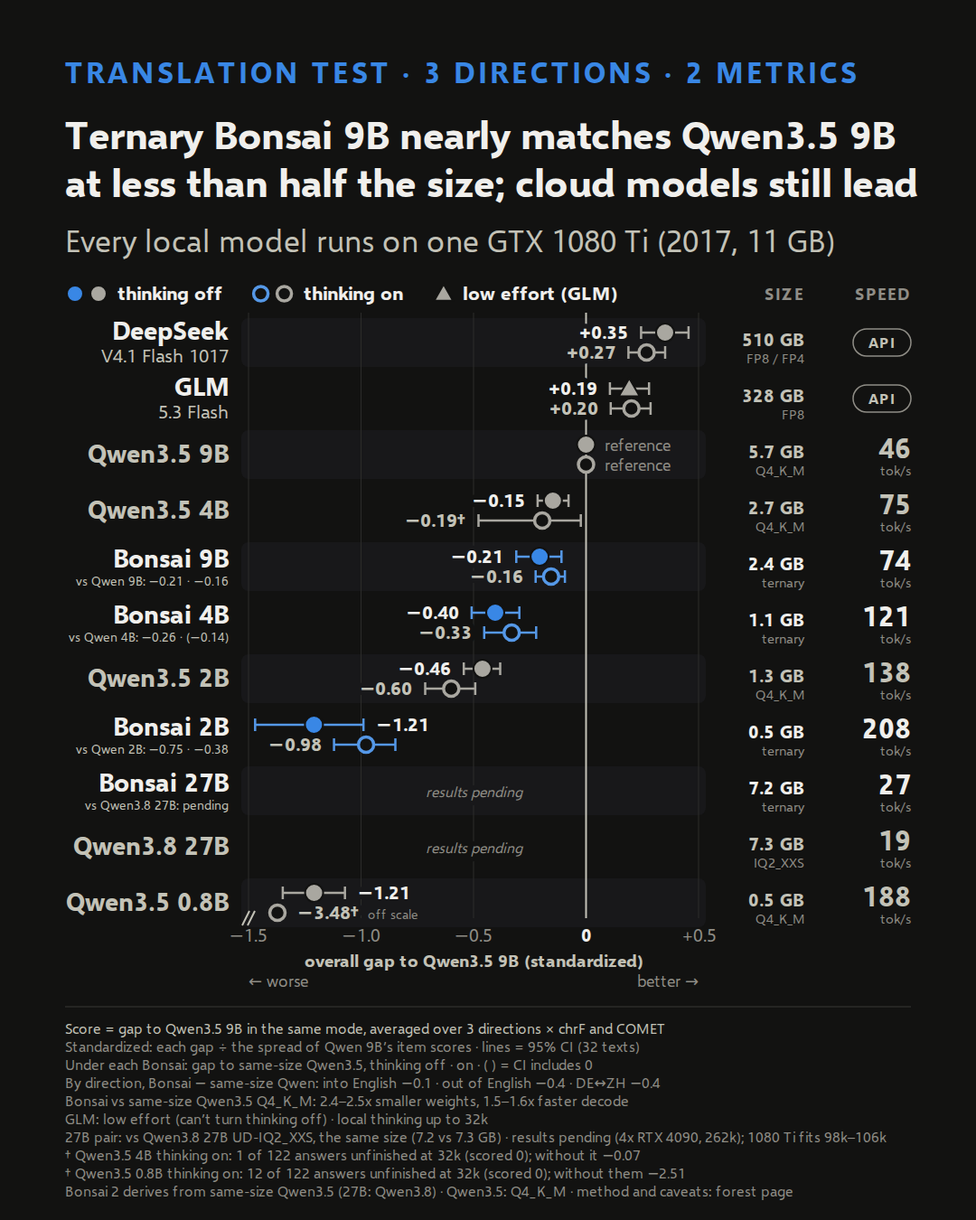
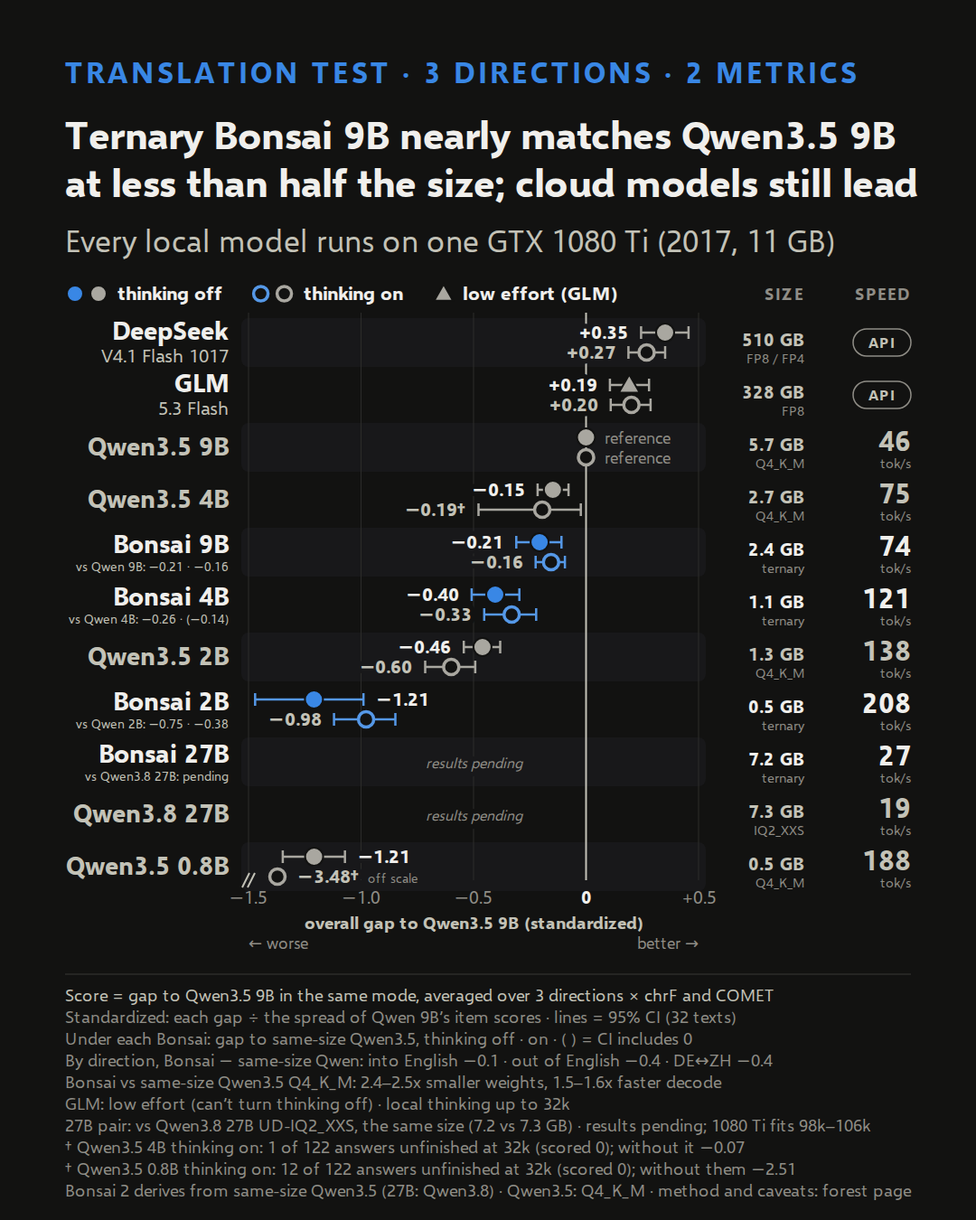
update bonsai2 translation pages

diff --git a/bonsai2-translation/index.html b/bonsai2-translation/index.html
@@ -35,26 +35,26 @@ svg.card{display:block;width:100%;height:auto;border-radius:14px}
 <text x="1008" y="332" fill="#8f8d86" font-size="18" font-weight="700" letter-spacing="2" text-anchor="end">SPEED</text>
 <text x="890" y="332" fill="#8f8d86" font-size="18" font-weight="700" letter-spacing="2" text-anchor="end">SIZE</text>
 <rect x="267" y="352" width="514" height="54" rx="8" fill="#18181a"/>
-<rect x="267" y="476" width="514" height="54" rx="8" fill="#18181a"/>
-<rect x="267" y="600" width="514" height="54" rx="8" fill="#18181a"/>
-<rect x="267" y="724" width="514" height="54" rx="8" fill="#18181a"/>
-<rect x="267" y="848" width="514" height="54" rx="8" fill="#18181a"/>
-<rect x="267" y="972" width="514" height="54" rx="8" fill="#18181a"/>
-<line x1="275.0" x2="275.0" y1="346" y2="1016.0" stroke="#2c2c2a" stroke-width="1"/>
-<text x="275.0" y="1042.0" fill="#8f8d86" font-size="20" font-weight="400" text-anchor="middle">−1.5</text>
-<line x1="399.5" x2="399.5" y1="346" y2="1016.0" stroke="#2c2c2a" stroke-width="1"/>
-<text x="399.5" y="1042.0" fill="#8f8d86" font-size="20" font-weight="400" text-anchor="middle">−1.0</text>
-<line x1="524.0" x2="524.0" y1="346" y2="1016.0" stroke="#2c2c2a" stroke-width="1"/>
-<text x="524.0" y="1042.0" fill="#8f8d86" font-size="20" font-weight="400" text-anchor="middle">−0.5</text>
-<line x1="648.5" x2="648.5" y1="346" y2="1016.0" stroke="#c3c2b7" stroke-width="2"/>
-<text x="648.5" y="1042.0" fill="#f0efec" font-size="20" font-weight="700" text-anchor="middle">0</text>
-<line x1="773.0" x2="773.0" y1="346" y2="1016.0" stroke="#2c2c2a" stroke-width="1"/>
-<text x="773.0" y="1042.0" fill="#8f8d86" font-size="20" font-weight="400" text-anchor="middle">+0.5</text>
-<line x1="268" x2="276" y1="1024.0" y2="1008.0" stroke="#c3c2b7" stroke-width="2"/>
-<line x1="274" x2="282" y1="1024.0" y2="1008.0" stroke="#c3c2b7" stroke-width="2"/>
-<text x="524.0" y="1070.0" fill="#c3c2b7" font-size="19" font-weight="700" text-anchor="middle">overall gap to Qwen3.5 9B (standardized)</text>
-<text x="275" y="1092.0" fill="#8f8d86" font-size="18">← worse</text>
-<text x="773" y="1092.0" fill="#8f8d86" font-size="18" text-anchor="end">better →</text>
+<rect x="267" y="468" width="514" height="54" rx="8" fill="#18181a"/>
+<rect x="267" y="584" width="514" height="54" rx="8" fill="#18181a"/>
+<rect x="267" y="700" width="514" height="54" rx="8" fill="#18181a"/>
+<rect x="267" y="816" width="514" height="54" rx="8" fill="#18181a"/>
+<rect x="267" y="932" width="514" height="54" rx="8" fill="#18181a"/>
+<line x1="275.0" x2="275.0" y1="346" y2="974.0" stroke="#2c2c2a" stroke-width="1"/>
+<text x="275.0" y="1000.0" fill="#8f8d86" font-size="20" font-weight="400" text-anchor="middle">−1.5</text>
+<line x1="399.5" x2="399.5" y1="346" y2="974.0" stroke="#2c2c2a" stroke-width="1"/>
+<text x="399.5" y="1000.0" fill="#8f8d86" font-size="20" font-weight="400" text-anchor="middle">−1.0</text>
+<line x1="524.0" x2="524.0" y1="346" y2="974.0" stroke="#2c2c2a" stroke-width="1"/>
+<text x="524.0" y="1000.0" fill="#8f8d86" font-size="20" font-weight="400" text-anchor="middle">−0.5</text>
+<line x1="648.5" x2="648.5" y1="346" y2="974.0" stroke="#c3c2b7" stroke-width="2"/>
+<text x="648.5" y="1000.0" fill="#f0efec" font-size="20" font-weight="700" text-anchor="middle">0</text>
+<line x1="773.0" x2="773.0" y1="346" y2="974.0" stroke="#2c2c2a" stroke-width="1"/>
+<text x="773.0" y="1000.0" fill="#8f8d86" font-size="20" font-weight="400" text-anchor="middle">+0.5</text>
+<line x1="268" x2="276" y1="982.0" y2="966.0" stroke="#c3c2b7" stroke-width="2"/>
+<line x1="274" x2="282" y1="982.0" y2="966.0" stroke="#c3c2b7" stroke-width="2"/>
+<text x="524.0" y="1028.0" fill="#c3c2b7" font-size="19" font-weight="700" text-anchor="middle">overall gap to Qwen3.5 9B (standardized)</text>
+<text x="275" y="1050.0" fill="#8f8d86" font-size="18">← worse</text>
+<text x="773" y="1050.0" fill="#8f8d86" font-size="18" text-anchor="end">better →</text>
 <g><title>DeepSeek V4.1 Flash 1017, thinking off: gap to Qwen3.5 9B +0.35 (95% interval +0.24 to +0.46) (standardized)</title>
 <line x1="709.4" x2="761.9" y1="368.0" y2="368.0" stroke="#a9a7a0" stroke-width="2.5"/>
 <line x1="709.4" x2="709.4" y1="361.0" y2="375.0" stroke="#a9a7a0" stroke-width="2.5"/>
@@ -76,176 +76,176 @@ svg.card{display:block;width:100%;height:auto;border-radius:14px}
 <text x="253" y="376.0" fill="#f0efec" font-size="28" font-weight="700" text-anchor="end">DeepSeek</text>
 <text x="253" y="401.0" fill="#c3c2b7" font-size="21" font-weight="400" text-anchor="end">V4.1 Flash 1017</text>
 <g><title>GLM 5.3 Flash, low-effort thinking: gap to Qwen3.5 9B +0.19 (95% interval +0.11 to +0.28) (standardized)</title>
-<line x1="674.9" x2="718.2" y1="430.0" y2="430.0" stroke="#a9a7a0" stroke-width="2.5"/>
-<line x1="674.9" x2="674.9" y1="423.0" y2="437.0" stroke="#a9a7a0" stroke-width="2.5"/>
-<line x1="718.2" x2="718.2" y1="423.0" y2="437.0" stroke="#a9a7a0" stroke-width="2.5"/>
-<path d="M696.3,418.5 L707.8,438.6 L684.8,438.6 Z" fill="#a9a7a0" stroke="#121211" stroke-width="2"/>
-<text x="660.9" y="437.0" text-anchor="end" font-size="21" font-weight="700" fill="#f0efec" stroke="#121211" stroke-width="11" stroke-linejoin="round" paint-order="stroke">+0.19</text>
+<line x1="674.9" x2="718.2" y1="426.0" y2="426.0" stroke="#a9a7a0" stroke-width="2.5"/>
+<line x1="674.9" x2="674.9" y1="419.0" y2="433.0" stroke="#a9a7a0" stroke-width="2.5"/>
+<line x1="718.2" x2="718.2" y1="419.0" y2="433.0" stroke="#a9a7a0" stroke-width="2.5"/>
+<path d="M696.3,414.5 L707.8,434.6 L684.8,434.6 Z" fill="#a9a7a0" stroke="#121211" stroke-width="2"/>
+<text x="660.9" y="433.0" text-anchor="end" font-size="21" font-weight="700" fill="#f0efec" stroke="#121211" stroke-width="11" stroke-linejoin="round" paint-order="stroke">+0.19</text>
 </g>
 <g><title>GLM 5.3 Flash, thinking on: gap to Qwen3.5 9B +0.20 (95% interval +0.11 to +0.29) (standardized)</title>
-<line x1="675.8" x2="719.9" y1="452.0" y2="452.0" stroke="#a9a7a0" stroke-width="2.5"/>
-<line x1="675.8" x2="675.8" y1="445.0" y2="459.0" stroke="#a9a7a0" stroke-width="2.5"/>
-<line x1="719.9" x2="719.9" y1="445.0" y2="459.0" stroke="#a9a7a0" stroke-width="2.5"/>
-<circle cx="698.7" cy="452.0" r="8.5" fill="#121211" stroke="#a9a7a0" stroke-width="3.5"/>
-<text x="661.8" y="459.0" text-anchor="end" font-size="21" font-weight="700" fill="#c3c2b7" stroke="#121211" stroke-width="11" stroke-linejoin="round" paint-order="stroke">+0.20</text>
+<line x1="675.8" x2="719.9" y1="448.0" y2="448.0" stroke="#a9a7a0" stroke-width="2.5"/>
+<line x1="675.8" x2="675.8" y1="441.0" y2="455.0" stroke="#a9a7a0" stroke-width="2.5"/>
+<line x1="719.9" x2="719.9" y1="441.0" y2="455.0" stroke="#a9a7a0" stroke-width="2.5"/>
+<circle cx="698.7" cy="448.0" r="8.5" fill="#121211" stroke="#a9a7a0" stroke-width="3.5"/>
+<text x="661.8" y="455.0" text-anchor="end" font-size="21" font-weight="700" fill="#c3c2b7" stroke="#121211" stroke-width="11" stroke-linejoin="round" paint-order="stroke">+0.20</text>
 </g>
-<rect x="944" y="426.0" width="64" height="30" rx="15" fill="none" stroke="#8f8d86" stroke-width="1.5"/>
-<text x="976.0" y="447.0" fill="#c3c2b7" font-size="16" font-weight="700" letter-spacing="1.5" text-anchor="middle">API</text>
-<text x="890" y="445.0" fill="#c3c2b7" font-size="20" font-weight="700" text-anchor="end">328 GB</text>
-<text x="890" y="464.0" fill="#8f8d86" font-size="15" text-anchor="end">FP8</text>
-<text x="253" y="438.0" fill="#f0efec" font-size="28" font-weight="700" text-anchor="end">GLM</text>
-<text x="253" y="463.0" fill="#c3c2b7" font-size="21" font-weight="400" text-anchor="end">5.3 Flash</text>
+<rect x="944" y="422.0" width="64" height="30" rx="15" fill="none" stroke="#8f8d86" stroke-width="1.5"/>
+<text x="976.0" y="443.0" fill="#c3c2b7" font-size="16" font-weight="700" letter-spacing="1.5" text-anchor="middle">API</text>
+<text x="890" y="441.0" fill="#c3c2b7" font-size="20" font-weight="700" text-anchor="end">328 GB</text>
+<text x="890" y="460.0" fill="#8f8d86" font-size="15" text-anchor="end">FP8</text>
+<text x="253" y="434.0" fill="#f0efec" font-size="28" font-weight="700" text-anchor="end">GLM</text>
+<text x="253" y="459.0" fill="#c3c2b7" font-size="21" font-weight="400" text-anchor="end">5.3 Flash</text>
 <g><title>Qwen3.5 9B Q4_K_M, thinking off: gap to Qwen3.5 9B reference (gap 0) (standardized)</title>
-<circle cx="648.5" cy="492.0" r="10" fill="#a9a7a0" stroke="#121211" stroke-width="2"/>
-<text x="668.5" y="499.0" text-anchor="start" font-size="18" font-weight="400" fill="#8f8d86" stroke="#18181a" stroke-width="11" stroke-linejoin="round" paint-order="stroke">reference</text>
+<circle cx="648.5" cy="484.0" r="10" fill="#a9a7a0" stroke="#121211" stroke-width="2"/>
+<text x="668.5" y="491.0" text-anchor="start" font-size="18" font-weight="400" fill="#8f8d86" stroke="#18181a" stroke-width="11" stroke-linejoin="round" paint-order="stroke">reference</text>
 </g>
 <g><title>Qwen3.5 9B Q4_K_M, thinking on: gap to Qwen3.5 9B reference (gap 0) (standardized)</title>
-<circle cx="648.5" cy="514.0" r="8.5" fill="#121211" stroke="#a9a7a0" stroke-width="3.5"/>
-<text x="668.5" y="521.0" text-anchor="start" font-size="18" font-weight="400" fill="#8f8d86" stroke="#18181a" stroke-width="11" stroke-linejoin="round" paint-order="stroke">reference</text>
+<circle cx="648.5" cy="506.0" r="8.5" fill="#121211" stroke="#a9a7a0" stroke-width="3.5"/>
+<text x="668.5" y="513.0" text-anchor="start" font-size="18" font-weight="400" fill="#8f8d86" stroke="#18181a" stroke-width="11" stroke-linejoin="round" paint-order="stroke">reference</text>
 </g>
-<text x="1008" y="507.0" fill="#c3c2b7" font-size="31" font-weight="700" text-anchor="end">46</text>
-<text x="1008" y="526.0" fill="#8f8d86" font-size="15" text-anchor="end">tok/s</text>
-<text x="890" y="507.0" fill="#c3c2b7" font-size="20" font-weight="700" text-anchor="end">5.7 GB</text>
-<text x="890" y="526.0" fill="#8f8d86" font-size="15" text-anchor="end">Q4_K_M</text>
-<text x="253" y="512.0" fill="#c3c2b7" font-size="28" font-weight="700" text-anchor="end">Qwen3.5 9B</text>
+<text x="1008" y="499.0" fill="#c3c2b7" font-size="31" font-weight="700" text-anchor="end">46</text>
+<text x="1008" y="518.0" fill="#8f8d86" font-size="15" text-anchor="end">tok/s</text>
+<text x="890" y="499.0" fill="#c3c2b7" font-size="20" font-weight="700" text-anchor="end">5.7 GB</text>
+<text x="890" y="518.0" fill="#8f8d86" font-size="15" text-anchor="end">Q4_K_M</text>
+<text x="253" y="504.0" fill="#c3c2b7" font-size="28" font-weight="700" text-anchor="end">Qwen3.5 9B</text>
 <g><title>Qwen3.5 4B Q4_K_M, thinking off: gap to Qwen3.5 9B −0.15 (95% interval −0.22 to −0.08) (standardized)</title>
-<line x1="594.9" x2="629.1" y1="554.0" y2="554.0" stroke="#a9a7a0" stroke-width="2.5"/>
-<line x1="594.9" x2="594.9" y1="547.0" y2="561.0" stroke="#a9a7a0" stroke-width="2.5"/>
-<line x1="629.1" x2="629.1" y1="547.0" y2="561.0" stroke="#a9a7a0" stroke-width="2.5"/>
-<circle cx="611.8" cy="554.0" r="10" fill="#a9a7a0" stroke="#121211" stroke-width="2"/>
-<text x="580.9" y="561.0" text-anchor="end" font-size="21" font-weight="700" fill="#f0efec" stroke="#121211" stroke-width="11" stroke-linejoin="round" paint-order="stroke">−0.15</text>
+<line x1="594.9" x2="629.1" y1="542.0" y2="542.0" stroke="#a9a7a0" stroke-width="2.5"/>
+<line x1="594.9" x2="594.9" y1="535.0" y2="549.0" stroke="#a9a7a0" stroke-width="2.5"/>
+<line x1="629.1" x2="629.1" y1="535.0" y2="549.0" stroke="#a9a7a0" stroke-width="2.5"/>
+<circle cx="611.8" cy="542.0" r="10" fill="#a9a7a0" stroke="#121211" stroke-width="2"/>
+<text x="580.9" y="549.0" text-anchor="end" font-size="21" font-weight="700" fill="#f0efec" stroke="#121211" stroke-width="11" stroke-linejoin="round" paint-order="stroke">−0.15</text>
 </g>
 <g><title>Qwen3.5 4B Q4_K_M, thinking on: gap to Qwen3.5 9B −0.19 (95% interval −0.48 to −0.02) (standardized); 1 capped answer(s) scored 0, without them −0.07</title>
-<line x1="529.5" x2="642.7" y1="576.0" y2="576.0" stroke="#a9a7a0" stroke-width="2.5"/>
-<line x1="529.5" x2="529.5" y1="569.0" y2="583.0" stroke="#a9a7a0" stroke-width="2.5"/>
-<line x1="642.7" x2="642.7" y1="569.0" y2="583.0" stroke="#a9a7a0" stroke-width="2.5"/>
-<circle cx="600.0" cy="576.0" r="8.5" fill="#121211" stroke="#a9a7a0" stroke-width="3.5"/>
-<text x="515.5" y="583.0" text-anchor="end" font-size="21" font-weight="700" fill="#c3c2b7" stroke="#121211" stroke-width="11" stroke-linejoin="round" paint-order="stroke">−0.19†</text>
+<line x1="529.5" x2="642.7" y1="564.0" y2="564.0" stroke="#a9a7a0" stroke-width="2.5"/>
+<line x1="529.5" x2="529.5" y1="557.0" y2="571.0" stroke="#a9a7a0" stroke-width="2.5"/>
+<line x1="642.7" x2="642.7" y1="557.0" y2="571.0" stroke="#a9a7a0" stroke-width="2.5"/>
+<circle cx="600.0" cy="564.0" r="8.5" fill="#121211" stroke="#a9a7a0" stroke-width="3.5"/>
+<text x="515.5" y="571.0" text-anchor="end" font-size="21" font-weight="700" fill="#c3c2b7" stroke="#121211" stroke-width="11" stroke-linejoin="round" paint-order="stroke">−0.19†</text>
 </g>
-<text x="1008" y="569.0" fill="#c3c2b7" font-size="31" font-weight="700" text-anchor="end">75</text>
-<text x="1008" y="588.0" fill="#8f8d86" font-size="15" text-anchor="end">tok/s</text>
-<text x="890" y="569.0" fill="#c3c2b7" font-size="20" font-weight="700" text-anchor="end">2.7 GB</text>
-<text x="890" y="588.0" fill="#8f8d86" font-size="15" text-anchor="end">Q4_K_M</text>
-<text x="253" y="574.0" fill="#c3c2b7" font-size="28" font-weight="700" text-anchor="end">Qwen3.5 4B</text>
+<text x="1008" y="557.0" fill="#c3c2b7" font-size="31" font-weight="700" text-anchor="end">75</text>
+<text x="1008" y="576.0" fill="#8f8d86" font-size="15" text-anchor="end">tok/s</text>
+<text x="890" y="557.0" fill="#c3c2b7" font-size="20" font-weight="700" text-anchor="end">2.7 GB</text>
+<text x="890" y="576.0" fill="#8f8d86" font-size="15" text-anchor="end">Q4_K_M</text>
+<text x="253" y="562.0" fill="#c3c2b7" font-size="28" font-weight="700" text-anchor="end">Qwen3.5 4B</text>
 <g><title>Ternary Bonsai 2 9B PQ2_0, thinking off: gap to Qwen3.5 9B −0.21 (95% interval −0.31 to −0.11) (standardized)</title>
-<line x1="571.3" x2="621.3" y1="616.0" y2="616.0" stroke="#5598e7" stroke-width="2.5"/>
-<line x1="571.3" x2="571.3" y1="609.0" y2="623.0" stroke="#5598e7" stroke-width="2.5"/>
-<line x1="621.3" x2="621.3" y1="609.0" y2="623.0" stroke="#5598e7" stroke-width="2.5"/>
-<circle cx="597.1" cy="616.0" r="10" fill="#3987e5" stroke="#121211" stroke-width="2"/>
-<text x="557.3" y="623.0" text-anchor="end" font-size="21" font-weight="700" fill="#f0efec" stroke="#18181a" stroke-width="11" stroke-linejoin="round" paint-order="stroke">−0.21</text>
+<line x1="571.3" x2="621.3" y1="600.0" y2="600.0" stroke="#5598e7" stroke-width="2.5"/>
+<line x1="571.3" x2="571.3" y1="593.0" y2="607.0" stroke="#5598e7" stroke-width="2.5"/>
+<line x1="621.3" x2="621.3" y1="593.0" y2="607.0" stroke="#5598e7" stroke-width="2.5"/>
+<circle cx="597.1" cy="600.0" r="10" fill="#3987e5" stroke="#121211" stroke-width="2"/>
+<text x="557.3" y="607.0" text-anchor="end" font-size="21" font-weight="700" fill="#f0efec" stroke="#18181a" stroke-width="11" stroke-linejoin="round" paint-order="stroke">−0.21</text>
 </g>
 <g><title>Ternary Bonsai 2 9B PQ2_0, thinking on: gap to Qwen3.5 9B −0.16 (95% interval −0.22 to −0.09) (standardized)</title>
-<line x1="592.7" x2="625.1" y1="638.0" y2="638.0" stroke="#5598e7" stroke-width="2.5"/>
-<line x1="592.7" x2="592.7" y1="631.0" y2="645.0" stroke="#5598e7" stroke-width="2.5"/>
-<line x1="625.1" x2="625.1" y1="631.0" y2="645.0" stroke="#5598e7" stroke-width="2.5"/>
-<circle cx="609.8" cy="638.0" r="8.5" fill="#121211" stroke="#5598e7" stroke-width="3.5"/>
-<text x="578.7" y="645.0" text-anchor="end" font-size="21" font-weight="700" fill="#c3c2b7" stroke="#18181a" stroke-width="11" stroke-linejoin="round" paint-order="stroke">−0.16</text>
+<line x1="592.7" x2="625.1" y1="622.0" y2="622.0" stroke="#5598e7" stroke-width="2.5"/>
+<line x1="592.7" x2="592.7" y1="615.0" y2="629.0" stroke="#5598e7" stroke-width="2.5"/>
+<line x1="625.1" x2="625.1" y1="615.0" y2="629.0" stroke="#5598e7" stroke-width="2.5"/>
+<circle cx="609.8" cy="622.0" r="8.5" fill="#121211" stroke="#5598e7" stroke-width="3.5"/>
+<text x="578.7" y="629.0" text-anchor="end" font-size="21" font-weight="700" fill="#c3c2b7" stroke="#18181a" stroke-width="11" stroke-linejoin="round" paint-order="stroke">−0.16</text>
 </g>
-<text x="1008" y="631.0" fill="#f0efec" font-size="31" font-weight="700" text-anchor="end">74</text>
-<text x="1008" y="650.0" fill="#8f8d86" font-size="15" text-anchor="end">tok/s</text>
-<text x="890" y="631.0" fill="#f0efec" font-size="20" font-weight="700" text-anchor="end">2.4 GB</text>
-<text x="890" y="650.0" fill="#8f8d86" font-size="15" text-anchor="end">ternary</text>
-<text x="253" y="628.0" fill="#f0efec" font-size="28" font-weight="700" text-anchor="end">Bonsai 9B</text>
-<text x="253" y="648.0" fill="#c3c2b7" font-size="14" text-anchor="end">vs Qwen 9B: −0.21 · −0.16</text>
+<text x="1008" y="615.0" fill="#f0efec" font-size="31" font-weight="700" text-anchor="end">74</text>
+<text x="1008" y="634.0" fill="#8f8d86" font-size="15" text-anchor="end">tok/s</text>
+<text x="890" y="615.0" fill="#f0efec" font-size="20" font-weight="700" text-anchor="end">2.4 GB</text>
+<text x="890" y="634.0" fill="#8f8d86" font-size="15" text-anchor="end">ternary</text>
+<text x="253" y="612.0" fill="#f0efec" font-size="28" font-weight="700" text-anchor="end">Bonsai 9B</text>
+<text x="253" y="632.0" fill="#c3c2b7" font-size="14" text-anchor="end">vs Qwen 9B: −0.21 · −0.16</text>
 <g><title>Ternary Bonsai 2 4B PQ2_0, thinking off: gap to Qwen3.5 9B −0.40 (95% interval −0.51 to −0.30) (standardized)</title>
-<line x1="521.9" x2="574.7" y1="678.0" y2="678.0" stroke="#5598e7" stroke-width="2.5"/>
-<line x1="521.9" x2="521.9" y1="671.0" y2="685.0" stroke="#5598e7" stroke-width="2.5"/>
-<line x1="574.7" x2="574.7" y1="671.0" y2="685.0" stroke="#5598e7" stroke-width="2.5"/>
-<circle cx="548.0" cy="678.0" r="10" fill="#3987e5" stroke="#121211" stroke-width="2"/>
-<text x="507.9" y="685.0" text-anchor="end" font-size="21" font-weight="700" fill="#f0efec" stroke="#121211" stroke-width="11" stroke-linejoin="round" paint-order="stroke">−0.40</text>
+<line x1="521.9" x2="574.7" y1="658.0" y2="658.0" stroke="#5598e7" stroke-width="2.5"/>
+<line x1="521.9" x2="521.9" y1="651.0" y2="665.0" stroke="#5598e7" stroke-width="2.5"/>
+<line x1="574.7" x2="574.7" y1="651.0" y2="665.0" stroke="#5598e7" stroke-width="2.5"/>
+<circle cx="548.0" cy="658.0" r="10" fill="#3987e5" stroke="#121211" stroke-width="2"/>
+<text x="507.9" y="665.0" text-anchor="end" font-size="21" font-weight="700" fill="#f0efec" stroke="#121211" stroke-width="11" stroke-linejoin="round" paint-order="stroke">−0.40</text>
 </g>
 <g><title>Ternary Bonsai 2 4B PQ2_0, thinking on: gap to Qwen3.5 9B −0.33 (95% interval −0.45 to −0.22) (standardized)</title>
-<line x1="535.8" x2="593.3" y1="700.0" y2="700.0" stroke="#5598e7" stroke-width="2.5"/>
-<line x1="535.8" x2="535.8" y1="693.0" y2="707.0" stroke="#5598e7" stroke-width="2.5"/>
-<line x1="593.3" x2="593.3" y1="693.0" y2="707.0" stroke="#5598e7" stroke-width="2.5"/>
-<circle cx="566.2" cy="700.0" r="8.5" fill="#121211" stroke="#5598e7" stroke-width="3.5"/>
-<text x="521.8" y="707.0" text-anchor="end" font-size="21" font-weight="700" fill="#c3c2b7" stroke="#121211" stroke-width="11" stroke-linejoin="round" paint-order="stroke">−0.33</text>
+<line x1="535.8" x2="593.3" y1="680.0" y2="680.0" stroke="#5598e7" stroke-width="2.5"/>
+<line x1="535.8" x2="535.8" y1="673.0" y2="687.0" stroke="#5598e7" stroke-width="2.5"/>
+<line x1="593.3" x2="593.3" y1="673.0" y2="687.0" stroke="#5598e7" stroke-width="2.5"/>
+<circle cx="566.2" cy="680.0" r="8.5" fill="#121211" stroke="#5598e7" stroke-width="3.5"/>
+<text x="521.8" y="687.0" text-anchor="end" font-size="21" font-weight="700" fill="#c3c2b7" stroke="#121211" stroke-width="11" stroke-linejoin="round" paint-order="stroke">−0.33</text>
 </g>
-<text x="1008" y="693.0" fill="#f0efec" font-size="31" font-weight="700" text-anchor="end">121</text>
-<text x="1008" y="712.0" fill="#8f8d86" font-size="15" text-anchor="end">tok/s</text>
-<text x="890" y="693.0" fill="#f0efec" font-size="20" font-weight="700" text-anchor="end">1.1 GB</text>
-<text x="890" y="712.0" fill="#8f8d86" font-size="15" text-anchor="end">ternary</text>
-<text x="253" y="690.0" fill="#f0efec" font-size="28" font-weight="700" text-anchor="end">Bonsai 4B</text>
-<text x="253" y="710.0" fill="#c3c2b7" font-size="14" text-anchor="end">vs Qwen 4B: −0.26 · (−0.14)</text>
+<text x="1008" y="673.0" fill="#f0efec" font-size="31" font-weight="700" text-anchor="end">121</text>
+<text x="1008" y="692.0" fill="#8f8d86" font-size="15" text-anchor="end">tok/s</text>
+<text x="890" y="673.0" fill="#f0efec" font-size="20" font-weight="700" text-anchor="end">1.1 GB</text>
+<text x="890" y="692.0" fill="#8f8d86" font-size="15" text-anchor="end">ternary</text>
+<text x="253" y="670.0" fill="#f0efec" font-size="28" font-weight="700" text-anchor="end">Bonsai 4B</text>
+<text x="253" y="690.0" fill="#c3c2b7" font-size="14" text-anchor="end">vs Qwen 4B: −0.26 · (−0.14)</text>
 <g><title>Qwen3.5 2B Q4_K_M, thinking off: gap to Qwen3.5 9B −0.46 (95% interval −0.54 to −0.38) (standardized)</title>
-<line x1="513.2" x2="553.5" y1="740.0" y2="740.0" stroke="#a9a7a0" stroke-width="2.5"/>
-<line x1="513.2" x2="513.2" y1="733.0" y2="747.0" stroke="#a9a7a0" stroke-width="2.5"/>
-<line x1="553.5" x2="553.5" y1="733.0" y2="747.0" stroke="#a9a7a0" stroke-width="2.5"/>
-<circle cx="533.9" cy="740.0" r="10" fill="#a9a7a0" stroke="#121211" stroke-width="2"/>
-<text x="499.2" y="747.0" text-anchor="end" font-size="21" font-weight="700" fill="#f0efec" stroke="#18181a" stroke-width="11" stroke-linejoin="round" paint-order="stroke">−0.46</text>
+<line x1="513.2" x2="553.5" y1="716.0" y2="716.0" stroke="#a9a7a0" stroke-width="2.5"/>
+<line x1="513.2" x2="513.2" y1="709.0" y2="723.0" stroke="#a9a7a0" stroke-width="2.5"/>
+<line x1="553.5" x2="553.5" y1="709.0" y2="723.0" stroke="#a9a7a0" stroke-width="2.5"/>
+<circle cx="533.9" cy="716.0" r="10" fill="#a9a7a0" stroke="#121211" stroke-width="2"/>
+<text x="499.2" y="723.0" text-anchor="end" font-size="21" font-weight="700" fill="#f0efec" stroke="#18181a" stroke-width="11" stroke-linejoin="round" paint-order="stroke">−0.46</text>
 </g>
 <g><title>Qwen3.5 2B Q4_K_M, thinking on: gap to Qwen3.5 9B −0.60 (95% interval −0.71 to −0.49) (standardized)</title>
-<line x1="470.5" x2="525.9" y1="762.0" y2="762.0" stroke="#a9a7a0" stroke-width="2.5"/>
-<line x1="470.5" x2="470.5" y1="755.0" y2="769.0" stroke="#a9a7a0" stroke-width="2.5"/>
-<line x1="525.9" x2="525.9" y1="755.0" y2="769.0" stroke="#a9a7a0" stroke-width="2.5"/>
-<circle cx="499.3" cy="762.0" r="8.5" fill="#121211" stroke="#a9a7a0" stroke-width="3.5"/>
-<text x="456.5" y="769.0" text-anchor="end" font-size="21" font-weight="700" fill="#c3c2b7" stroke="#18181a" stroke-width="11" stroke-linejoin="round" paint-order="stroke">−0.60</text>
+<line x1="470.5" x2="525.9" y1="738.0" y2="738.0" stroke="#a9a7a0" stroke-width="2.5"/>
+<line x1="470.5" x2="470.5" y1="731.0" y2="745.0" stroke="#a9a7a0" stroke-width="2.5"/>
+<line x1="525.9" x2="525.9" y1="731.0" y2="745.0" stroke="#a9a7a0" stroke-width="2.5"/>
+<circle cx="499.3" cy="738.0" r="8.5" fill="#121211" stroke="#a9a7a0" stroke-width="3.5"/>
+<text x="456.5" y="745.0" text-anchor="end" font-size="21" font-weight="700" fill="#c3c2b7" stroke="#18181a" stroke-width="11" stroke-linejoin="round" paint-order="stroke">−0.60</text>
 </g>
-<text x="1008" y="755.0" fill="#c3c2b7" font-size="31" font-weight="700" text-anchor="end">138</text>
-<text x="1008" y="774.0" fill="#8f8d86" font-size="15" text-anchor="end">tok/s</text>
-<text x="890" y="755.0" fill="#c3c2b7" font-size="20" font-weight="700" text-anchor="end">1.3 GB</text>
-<text x="890" y="774.0" fill="#8f8d86" font-size="15" text-anchor="end">Q4_K_M</text>
-<text x="253" y="760.0" fill="#c3c2b7" font-size="28" font-weight="700" text-anchor="end">Qwen3.5 2B</text>
+<text x="1008" y="731.0" fill="#c3c2b7" font-size="31" font-weight="700" text-anchor="end">138</text>
+<text x="1008" y="750.0" fill="#8f8d86" font-size="15" text-anchor="end">tok/s</text>
+<text x="890" y="731.0" fill="#c3c2b7" font-size="20" font-weight="700" text-anchor="end">1.3 GB</text>
+<text x="890" y="750.0" fill="#8f8d86" font-size="15" text-anchor="end">Q4_K_M</text>
+<text x="253" y="736.0" fill="#c3c2b7" font-size="28" font-weight="700" text-anchor="end">Qwen3.5 2B</text>
 <g><title>Ternary Bonsai 2 2B PQ2_0, thinking off: gap to Qwen3.5 9B −1.21 (95% interval −1.47 to −0.99) (standardized)</title>
-<line x1="282.3" x2="402.2" y1="802.0" y2="802.0" stroke="#5598e7" stroke-width="2.5"/>
-<line x1="282.3" x2="282.3" y1="795.0" y2="809.0" stroke="#5598e7" stroke-width="2.5"/>
-<line x1="402.2" x2="402.2" y1="795.0" y2="809.0" stroke="#5598e7" stroke-width="2.5"/>
-<circle cx="347.4" cy="802.0" r="10" fill="#3987e5" stroke="#121211" stroke-width="2"/>
-<text x="416.2" y="809.0" text-anchor="start" font-size="21" font-weight="700" fill="#f0efec" stroke="#121211" stroke-width="11" stroke-linejoin="round" paint-order="stroke">−1.21</text>
+<line x1="282.3" x2="402.2" y1="774.0" y2="774.0" stroke="#5598e7" stroke-width="2.5"/>
+<line x1="282.3" x2="282.3" y1="767.0" y2="781.0" stroke="#5598e7" stroke-width="2.5"/>
+<line x1="402.2" x2="402.2" y1="767.0" y2="781.0" stroke="#5598e7" stroke-width="2.5"/>
+<circle cx="347.4" cy="774.0" r="10" fill="#3987e5" stroke="#121211" stroke-width="2"/>
+<text x="416.2" y="781.0" text-anchor="start" font-size="21" font-weight="700" fill="#f0efec" stroke="#121211" stroke-width="11" stroke-linejoin="round" paint-order="stroke">−1.21</text>
 </g>
 <g><title>Ternary Bonsai 2 2B PQ2_0, thinking on: gap to Qwen3.5 9B −0.98 (95% interval −1.12 to −0.85) (standardized)</title>
-<line x1="369.6" x2="437.5" y1="824.0" y2="824.0" stroke="#5598e7" stroke-width="2.5"/>
-<line x1="369.6" x2="369.6" y1="817.0" y2="831.0" stroke="#5598e7" stroke-width="2.5"/>
-<line x1="437.5" x2="437.5" y1="817.0" y2="831.0" stroke="#5598e7" stroke-width="2.5"/>
-<circle cx="405.1" cy="824.0" r="8.5" fill="#121211" stroke="#5598e7" stroke-width="3.5"/>
-<text x="355.6" y="831.0" text-anchor="end" font-size="21" font-weight="700" fill="#c3c2b7" stroke="#121211" stroke-width="11" stroke-linejoin="round" paint-order="stroke">−0.98</text>
+<line x1="369.6" x2="437.5" y1="796.0" y2="796.0" stroke="#5598e7" stroke-width="2.5"/>
+<line x1="369.6" x2="369.6" y1="789.0" y2="803.0" stroke="#5598e7" stroke-width="2.5"/>
+<line x1="437.5" x2="437.5" y1="789.0" y2="803.0" stroke="#5598e7" stroke-width="2.5"/>
+<circle cx="405.1" cy="796.0" r="8.5" fill="#121211" stroke="#5598e7" stroke-width="3.5"/>
+<text x="355.6" y="803.0" text-anchor="end" font-size="21" font-weight="700" fill="#c3c2b7" stroke="#121211" stroke-width="11" stroke-linejoin="round" paint-order="stroke">−0.98</text>
 </g>
-<text x="1008" y="817.0" fill="#f0efec" font-size="31" font-weight="700" text-anchor="end">208</text>
-<text x="1008" y="836.0" fill="#8f8d86" font-size="15" text-anchor="end">tok/s</text>
-<text x="890" y="817.0" fill="#f0efec" font-size="20" font-weight="700" text-anchor="end">0.5 GB</text>
-<text x="890" y="836.0" fill="#8f8d86" font-size="15" text-anchor="end">ternary</text>
-<text x="253" y="814.0" fill="#f0efec" font-size="28" font-weight="700" text-anchor="end">Bonsai 2B</text>
-<text x="253" y="834.0" fill="#c3c2b7" font-size="14" text-anchor="end">vs Qwen 2B: −0.75 · −0.38</text>
-<text x="524.0" y="882.0" fill="#8f8d86" font-size="16" font-style="italic" text-anchor="middle" stroke="#18181a" stroke-width="11" stroke-linejoin="round" paint-order="stroke">results pending</text>
-<text x="1008" y="879.0" fill="#f0efec" font-size="31" font-weight="700" text-anchor="end">27</text>
-<text x="1008" y="898.0" fill="#8f8d86" font-size="15" text-anchor="end">tok/s</text>
-<text x="890" y="879.0" fill="#f0efec" font-size="20" font-weight="700" text-anchor="end">7.2 GB</text>
-<text x="890" y="898.0" fill="#8f8d86" font-size="15" text-anchor="end">ternary</text>
-<text x="253" y="876.0" fill="#f0efec" font-size="28" font-weight="700" text-anchor="end">Bonsai 27B</text>
-<text x="253" y="896.0" fill="#c3c2b7" font-size="14" text-anchor="end">vs Qwen3.8 27B: pending</text>
-<text x="524.0" y="944.0" fill="#8f8d86" font-size="16" font-style="italic" text-anchor="middle" stroke="#121211" stroke-width="11" stroke-linejoin="round" paint-order="stroke">results pending</text>
-<text x="1008" y="941.0" fill="#c3c2b7" font-size="31" font-weight="700" text-anchor="end">19</text>
-<text x="1008" y="960.0" fill="#8f8d86" font-size="15" text-anchor="end">tok/s</text>
-<text x="890" y="941.0" fill="#c3c2b7" font-size="20" font-weight="700" text-anchor="end">7.3 GB</text>
-<text x="890" y="960.0" fill="#8f8d86" font-size="15" text-anchor="end">IQ2_XXS</text>
-<text x="253" y="946.0" fill="#c3c2b7" font-size="28" font-weight="700" text-anchor="end">Qwen3.8 27B</text>
+<text x="1008" y="789.0" fill="#f0efec" font-size="31" font-weight="700" text-anchor="end">208</text>
+<text x="1008" y="808.0" fill="#8f8d86" font-size="15" text-anchor="end">tok/s</text>
+<text x="890" y="789.0" fill="#f0efec" font-size="20" font-weight="700" text-anchor="end">0.5 GB</text>
+<text x="890" y="808.0" fill="#8f8d86" font-size="15" text-anchor="end">ternary</text>
+<text x="253" y="786.0" fill="#f0efec" font-size="28" font-weight="700" text-anchor="end">Bonsai 2B</text>
+<text x="253" y="806.0" fill="#c3c2b7" font-size="14" text-anchor="end">vs Qwen 2B: −0.75 · −0.38</text>
+<text x="524.0" y="850.0" fill="#8f8d86" font-size="16" font-style="italic" text-anchor="middle" stroke="#18181a" stroke-width="11" stroke-linejoin="round" paint-order="stroke">results pending</text>
+<text x="1008" y="847.0" fill="#f0efec" font-size="31" font-weight="700" text-anchor="end">27</text>
+<text x="1008" y="866.0" fill="#8f8d86" font-size="15" text-anchor="end">tok/s</text>
+<text x="890" y="847.0" fill="#f0efec" font-size="20" font-weight="700" text-anchor="end">7.2 GB</text>
+<text x="890" y="866.0" fill="#8f8d86" font-size="15" text-anchor="end">ternary</text>
+<text x="253" y="844.0" fill="#f0efec" font-size="28" font-weight="700" text-anchor="end">Bonsai 27B</text>
+<text x="253" y="864.0" fill="#c3c2b7" font-size="14" text-anchor="end">vs Qwen3.8 27B: pending</text>
+<text x="524.0" y="908.0" fill="#8f8d86" font-size="16" font-style="italic" text-anchor="middle" stroke="#121211" stroke-width="11" stroke-linejoin="round" paint-order="stroke">results pending</text>
+<text x="1008" y="905.0" fill="#c3c2b7" font-size="31" font-weight="700" text-anchor="end">19</text>
+<text x="1008" y="924.0" fill="#8f8d86" font-size="15" text-anchor="end">tok/s</text>
+<text x="890" y="905.0" fill="#c3c2b7" font-size="20" font-weight="700" text-anchor="end">7.3 GB</text>
+<text x="890" y="924.0" fill="#8f8d86" font-size="15" text-anchor="end">IQ2_XXS</text>
+<text x="253" y="910.0" fill="#c3c2b7" font-size="28" font-weight="700" text-anchor="end">Qwen3.8 27B</text>
 <g><title>Qwen3.5 0.8B Q4_K_M, thinking off: gap to Qwen3.5 9B −1.21 (95% interval −1.35 to −1.07) (standardized)</title>
-<line x1="312.9" x2="381.7" y1="988.0" y2="988.0" stroke="#a9a7a0" stroke-width="2.5"/>
-<line x1="312.9" x2="312.9" y1="981.0" y2="995.0" stroke="#a9a7a0" stroke-width="2.5"/>
-<line x1="381.7" x2="381.7" y1="981.0" y2="995.0" stroke="#a9a7a0" stroke-width="2.5"/>
-<circle cx="347.6" cy="988.0" r="10" fill="#a9a7a0" stroke="#121211" stroke-width="2"/>
-<text x="395.7" y="995.0" text-anchor="start" font-size="21" font-weight="700" fill="#f0efec" stroke="#18181a" stroke-width="11" stroke-linejoin="round" paint-order="stroke">−1.21</text>
+<line x1="312.9" x2="381.7" y1="948.0" y2="948.0" stroke="#a9a7a0" stroke-width="2.5"/>
+<line x1="312.9" x2="312.9" y1="941.0" y2="955.0" stroke="#a9a7a0" stroke-width="2.5"/>
+<line x1="381.7" x2="381.7" y1="941.0" y2="955.0" stroke="#a9a7a0" stroke-width="2.5"/>
+<circle cx="347.6" cy="948.0" r="10" fill="#a9a7a0" stroke="#121211" stroke-width="2"/>
+<text x="395.7" y="955.0" text-anchor="start" font-size="21" font-weight="700" fill="#f0efec" stroke="#18181a" stroke-width="11" stroke-linejoin="round" paint-order="stroke">−1.21</text>
 </g>
 <g><title>Qwen3.5 0.8B Q4_K_M, thinking on: gap to Qwen3.5 9B −3.48 (95% interval −4.06 to −2.91) (standardized); 12 capped answer(s) scored 0, without them −2.51</title>
-<circle cx="307.0" cy="1010.0" r="8.5" fill="#121211" stroke="#a9a7a0" stroke-width="3.5"/>
-<text x="329.0" y="1017.0" text-anchor="start" font-size="21" font-weight="700" fill="#c3c2b7" stroke="#18181a" stroke-width="11" stroke-linejoin="round" paint-order="stroke">−3.48†<tspan dx="10" font-size="14" font-weight="400" fill="#8f8d86">off scale</tspan></text>
+<circle cx="307.0" cy="970.0" r="8.5" fill="#121211" stroke="#a9a7a0" stroke-width="3.5"/>
+<text x="329.0" y="977.0" text-anchor="start" font-size="21" font-weight="700" fill="#c3c2b7" stroke="#18181a" stroke-width="11" stroke-linejoin="round" paint-order="stroke">−3.48†<tspan dx="10" font-size="14" font-weight="400" fill="#8f8d86">off scale</tspan></text>
 </g>
-<text x="1008" y="1003.0" fill="#c3c2b7" font-size="31" font-weight="700" text-anchor="end">188</text>
-<text x="1008" y="1022.0" fill="#8f8d86" font-size="15" text-anchor="end">tok/s</text>
-<text x="890" y="1003.0" fill="#c3c2b7" font-size="20" font-weight="700" text-anchor="end">0.5 GB</text>
-<text x="890" y="1022.0" fill="#8f8d86" font-size="15" text-anchor="end">Q4_K_M</text>
-<text x="253" y="1008.0" fill="#c3c2b7" font-size="28" font-weight="700" text-anchor="end">Qwen3.5 0.8B</text>
-<line x1="72" x2="1008" y1="1114" y2="1114" stroke="#2c2c2a" stroke-width="1.5"/>
-<text x="72" y="1144" fill="#c3c2b7" font-size="16">Score = gap to Qwen3.5 9B in the same mode, averaged over 3 directions × chrF and COMET</text>
-<text x="72" y="1164" fill="#8f8d86" font-size="16">Standardized: each gap ÷ the spread of Qwen 9B’s item scores · lines = 95% CI (32 texts)</text>
-<text x="72" y="1184" fill="#8f8d86" font-size="16">Under each Bonsai: gap to same-size Qwen3.5, thinking off · on · ( ) = CI includes 0</text>
-<text x="72" y="1204" fill="#8f8d86" font-size="16">By direction, Bonsai − same-size Qwen: into English −0.1 · out of English −0.4 · DE↔ZH −0.4</text>
-<text x="72" y="1224" fill="#8f8d86" font-size="16">Bonsai vs same-size Qwen3.5 Q4_K_M: 2.4–2.5x smaller weights, 1.5–1.6x faster decode</text>
-<text x="72" y="1244" fill="#8f8d86" font-size="16">GLM: low effort (can’t turn thinking off) · local thinking up to 32k</text>
-<text x="72" y="1264" fill="#8f8d86" font-size="16">27B pair: vs Qwen3.8 27B UD-IQ2_XXS, the same size (7.2 vs 7.3 GB) · results pending (4x RTX 4090, 262k); 1080 Ti fits 98k–106k</text>
-<text x="72" y="1284" fill="#8f8d86" font-size="16">† Qwen3.5 4B thinking on: 1 of 122 answers unfinished at 32k (scored 0); without it −0.07</text>
-<text x="72" y="1304" fill="#8f8d86" font-size="16">† Qwen3.5 0.8B thinking on: 12 of 122 answers unfinished at 32k (scored 0); without them −2.51</text>
-<text x="72" y="1324" fill="#8f8d86" font-size="16">Bonsai 2 derives from same-size Qwen3.5 (27B: Qwen3.8) · Qwen3.5: Q4_K_M · method and caveats: forest page</text>
+<text x="1008" y="963.0" fill="#c3c2b7" font-size="31" font-weight="700" text-anchor="end">188</text>
+<text x="1008" y="982.0" fill="#8f8d86" font-size="15" text-anchor="end">tok/s</text>
+<text x="890" y="963.0" fill="#c3c2b7" font-size="20" font-weight="700" text-anchor="end">0.5 GB</text>
+<text x="890" y="982.0" fill="#8f8d86" font-size="15" text-anchor="end">Q4_K_M</text>
+<text x="253" y="968.0" fill="#c3c2b7" font-size="28" font-weight="700" text-anchor="end">Qwen3.5 0.8B</text>
+<line x1="72" x2="1008" y1="1078" y2="1078" stroke="#2c2c2a" stroke-width="1.5"/>
+<text x="72" y="1108" fill="#c3c2b7" font-size="19">Score = gap to Qwen3.5 9B in the same mode, averaged over 3 directions × chrF and COMET</text>
+<text x="72" y="1132" fill="#8f8d86" font-size="19">Standardized: each gap ÷ the spread of Qwen 9B’s item scores · lines = 95% CI (32 texts)</text>
+<text x="72" y="1156" fill="#8f8d86" font-size="19">Under each Bonsai: gap to same-size Qwen3.5, thinking off · on · ( ) = CI includes 0</text>
+<text x="72" y="1180" fill="#8f8d86" font-size="19">By direction, Bonsai − same-size Qwen: into English −0.1 · out of English −0.4 · DE↔ZH −0.4</text>
+<text x="72" y="1204" fill="#8f8d86" font-size="19">Bonsai vs same-size Qwen3.5 Q4_K_M: 2.4–2.5x smaller weights, 1.5–1.6x faster decode</text>
+<text x="72" y="1228" fill="#8f8d86" font-size="19">GLM: low effort (can’t turn thinking off) · local thinking up to 32k</text>
+<text x="72" y="1252" fill="#8f8d86" font-size="19">27B pair: vs Qwen3.8 27B UD-IQ2_XXS, the same size (7.2 vs 7.3 GB) · results pending; 1080 Ti fits 98k–106k</text>
+<text x="72" y="1276" fill="#8f8d86" font-size="19">† Qwen3.5 4B thinking on: 1 of 122 answers unfinished at 32k (scored 0); without it −0.07</text>
+<text x="72" y="1300" fill="#8f8d86" font-size="19">† Qwen3.5 0.8B thinking on: 12 of 122 answers unfinished at 32k (scored 0); without them −2.51</text>
+<text x="72" y="1324" fill="#8f8d86" font-size="19">Bonsai 2 derives from same-size Qwen3.5 (27B: Qwen3.8) · Qwen3.5: Q4_K_M · method and caveats: forest page</text>
 </svg>
 <div class="links"><a href="details.html">Full analysis →</a><a href="holistic.png" download>Download image</a></div>
 </main></body></html>

diff --git a/bonsai2-translation/details.html b/bonsai2-translation/details.html
@@ -558,7 +558,7 @@ padding:8px 10px;font-size:12.5px;box-shadow:0 4px 16px rgba(0,0,0,.4);display:n
 <text class="glab" x="202" y="573.0" text-anchor="end">anchor · same 0.5 GB</text>
 <text class="axlab" x="639.0" y="698" text-anchor="middle">← worse than Qwen chrF difference vs Qwen3.5 Q4_K_M (points) better than Qwen →</text>
 </svg></div>
-<p class="summary">Each mark is the average chrF difference (character overlap with a reference text, 0–100) on the same items, Bonsai minus the same-size Qwen3.5 Q4_K_M (blue) or a cloud model minus Qwen3.5 9B (gray), each against Qwen run in the same mode (GLM&#x27;s low effort against Qwen thinking off). Whiskers are 95% confidence intervals for that average, not the spread of individual items; one crossing zero means no reliable difference. Into English, Bonsai 9B shows no clear difference from Qwen3.5 9B in either mode, while the 4B and 2B trail by up to 3 points. Orange marks where Bonsai is ahead of the Qwen it is paired with even after correcting for all 32 Bonsai comparisons on this page: Bonsai 9B on abstracts with thinking off; Bonsai 2B vs Qwen3.5 0.8B in 6 of 8 cells (all but translation out of English with thinking off and German↔Chinese with thinking off). Out of English and between German and Chinese, Bonsai is behind at every size, though not always reliably. Into English the cloud is about 4 points ahead of Bonsai 9B, the smallest and most precise gap to DeepSeek with thinking off; out of English it depends on the cloud model (GLM is weak there). At the same 0.5 GB of weights, Bonsai 2B beats Qwen3.5 0.8B into English in both modes (talks +4.3 off, +13.5 on; abstracts +3.4 off, +3.7 on); out of English and between German and Chinese it is level with thinking off but far ahead with thinking on (†: partly from the 0.8B’s unfinished answers). The 27B row (Bonsai 27B, derived from Qwen3.8 27B, against Qwen3.8 27B UD-IQ2_XXS of the same size, 7.2 vs 7.3 GB) is pending: its quality runs on 4x RTX 4090 have not finished; its 1080 Ti speeds are measured. A second, meaning-based metric, COMET (wmt22-comet-da, ×100), never points the other way where both metrics separate a difference; it separates none of the Bonsai or cloud differences on abstracts, consistent with their loosely parallel references; of the 7 orange cells it also puts Bonsai reliably ahead in 5, leaning the same way in 2 (3 long German abstracts are truncated at COMET&#x27;s 512-token limit). Answers still unfinished at 32k thinking tokens score 0 and stay in; † marks where they move a value by more than half its interval: Bonsai 2B − Qwen3.5 0.8B translation out of English with thinking on, +16.5: 5 of 36 answers unfinished at 32k (scored 0); without them +11.2; Bonsai 2B − Qwen3.5 0.8B German↔Chinese with thinking on, +18.5: 7 of 36 answers unfinished at 32k (scored 0); without them +12.7. Method: chrF2++ per item (chrF2 for Chinese), 95% paired bootstrap; orange = sign-flip test, 5% false-discovery rate (Benjamini-Hochberg); ACL talk excerpts plus 14 abstracts. References: the talks&#x27; human transcripts and translations (German↔Chinese: both sides translated from the English); for abstracts, the authors&#x27; own English abstract, only roughly parallel. Each talk panel is 18 excerpts from 5 talks, each excerpt in two directions (36 items); resampling whole excerpts instead of items changes no verdict. Local runs (S1): the same GGUFs and engine on a GTX 1080 Ti (most Bonsai records) and an RTX 5080 (most Qwen3.5 records), checked equivalent (no systematic cross-GPU shift); continuations past the 8k cap ran on an A100 with f16 KV (originals q8_0). DeepSeek V4.1 Flash 1017 via DeepInfra (fp8), GLM 5.3 Flash via Sail Research (fp4, low-effort thinking since it can’t be turned off); Qwen3.5 rows are the 4-bit Q4_K_M build of the model Bonsai 2 derives from (PrismML model card); tok/s: llama-bench decode, GTX 1080 Ti, short context; local thinking on: up to 32k thinking tokens (8k-capped generations continued); cloud runs use the providers&#x27; default sampling and output limits; an empty answer scores 0.</p>
+<p class="summary">Each mark is the average chrF difference (character overlap with a reference text, 0–100) on the same items, Bonsai minus the same-size Qwen3.5 Q4_K_M (blue) or a cloud model minus Qwen3.5 9B (gray), each against Qwen run in the same mode (GLM&#x27;s low effort against Qwen thinking off). Whiskers are 95% confidence intervals for that average, not the spread of individual items; one crossing zero means no reliable difference. Into English, Bonsai 9B shows no clear difference from Qwen3.5 9B in either mode, while the 4B and 2B trail by up to 3 points. Orange marks where Bonsai is ahead of the Qwen it is paired with even after correcting for all 32 Bonsai comparisons on this page: Bonsai 9B on abstracts with thinking off; Bonsai 2B vs Qwen3.5 0.8B in 6 of 8 cells (all but translation out of English with thinking off and German↔Chinese with thinking off). Out of English and between German and Chinese, Bonsai is behind at every size, though not always reliably. Into English the cloud is about 4 points ahead of Bonsai 9B, the smallest and most precise gap to DeepSeek with thinking off; out of English it depends on the cloud model (GLM is weak there). At the same 0.5 GB of weights, Bonsai 2B beats Qwen3.5 0.8B into English in both modes (talks +4.3 off, +13.5 on; abstracts +3.4 off, +3.7 on); out of English and between German and Chinese it is level with thinking off but far ahead with thinking on (†: partly from the 0.8B’s unfinished answers). The 27B row (Bonsai 27B, derived from Qwen3.8 27B, against Qwen3.8 27B UD-IQ2_XXS of the same size, 7.2 vs 7.3 GB) is pending: its quality runs have not been done yet; its 1080 Ti speeds are measured. A second, meaning-based metric, COMET (wmt22-comet-da, ×100), never points the other way where both metrics separate a difference; it separates none of the Bonsai or cloud differences on abstracts, consistent with their loosely parallel references; of the 7 orange cells it also puts Bonsai reliably ahead in 5, leaning the same way in 2 (3 long German abstracts are truncated at COMET&#x27;s 512-token limit). Answers still unfinished at 32k thinking tokens score 0 and stay in; † marks where they move a value by more than half its interval: Bonsai 2B − Qwen3.5 0.8B translation out of English with thinking on, +16.5: 5 of 36 answers unfinished at 32k (scored 0); without them +11.2; Bonsai 2B − Qwen3.5 0.8B German↔Chinese with thinking on, +18.5: 7 of 36 answers unfinished at 32k (scored 0); without them +12.7. Method: chrF2++ per item (chrF2 for Chinese), 95% paired bootstrap; orange = sign-flip test, 5% false-discovery rate (Benjamini-Hochberg); ACL talk excerpts plus 14 abstracts. References: the talks&#x27; human transcripts and translations (German↔Chinese: both sides translated from the English); for abstracts, the authors&#x27; own English abstract, only roughly parallel. Each talk panel is 18 excerpts from 5 talks, each excerpt in two directions (36 items); resampling whole excerpts instead of items changes no verdict. Local runs (S1): the same GGUFs and engine on a GTX 1080 Ti (most Bonsai records) and an RTX 5080 (most Qwen3.5 records), checked equivalent (no systematic cross-GPU shift); continuations past the 8k cap ran on an A100 with f16 KV (originals q8_0). DeepSeek V4.1 Flash 1017 via DeepInfra (fp8), GLM 5.3 Flash via Sail Research (fp4, low-effort thinking since it can’t be turned off); Qwen3.5 rows are the 4-bit Q4_K_M build of the model Bonsai 2 derives from (PrismML model card); tok/s: llama-bench decode, GTX 1080 Ti, short context; local thinking on: up to 32k thinking tokens (8k-capped generations continued); cloud runs use the providers&#x27; default sampling and output limits; an empty answer scores 0.</p>
 </div></main><div id="tip" role="tooltip"></div><script>
 (function(){var t=document.getElementById('tip');
 function show(e,g){var p=g.getAttribute('data-tip').split('|');t.textContent='';
